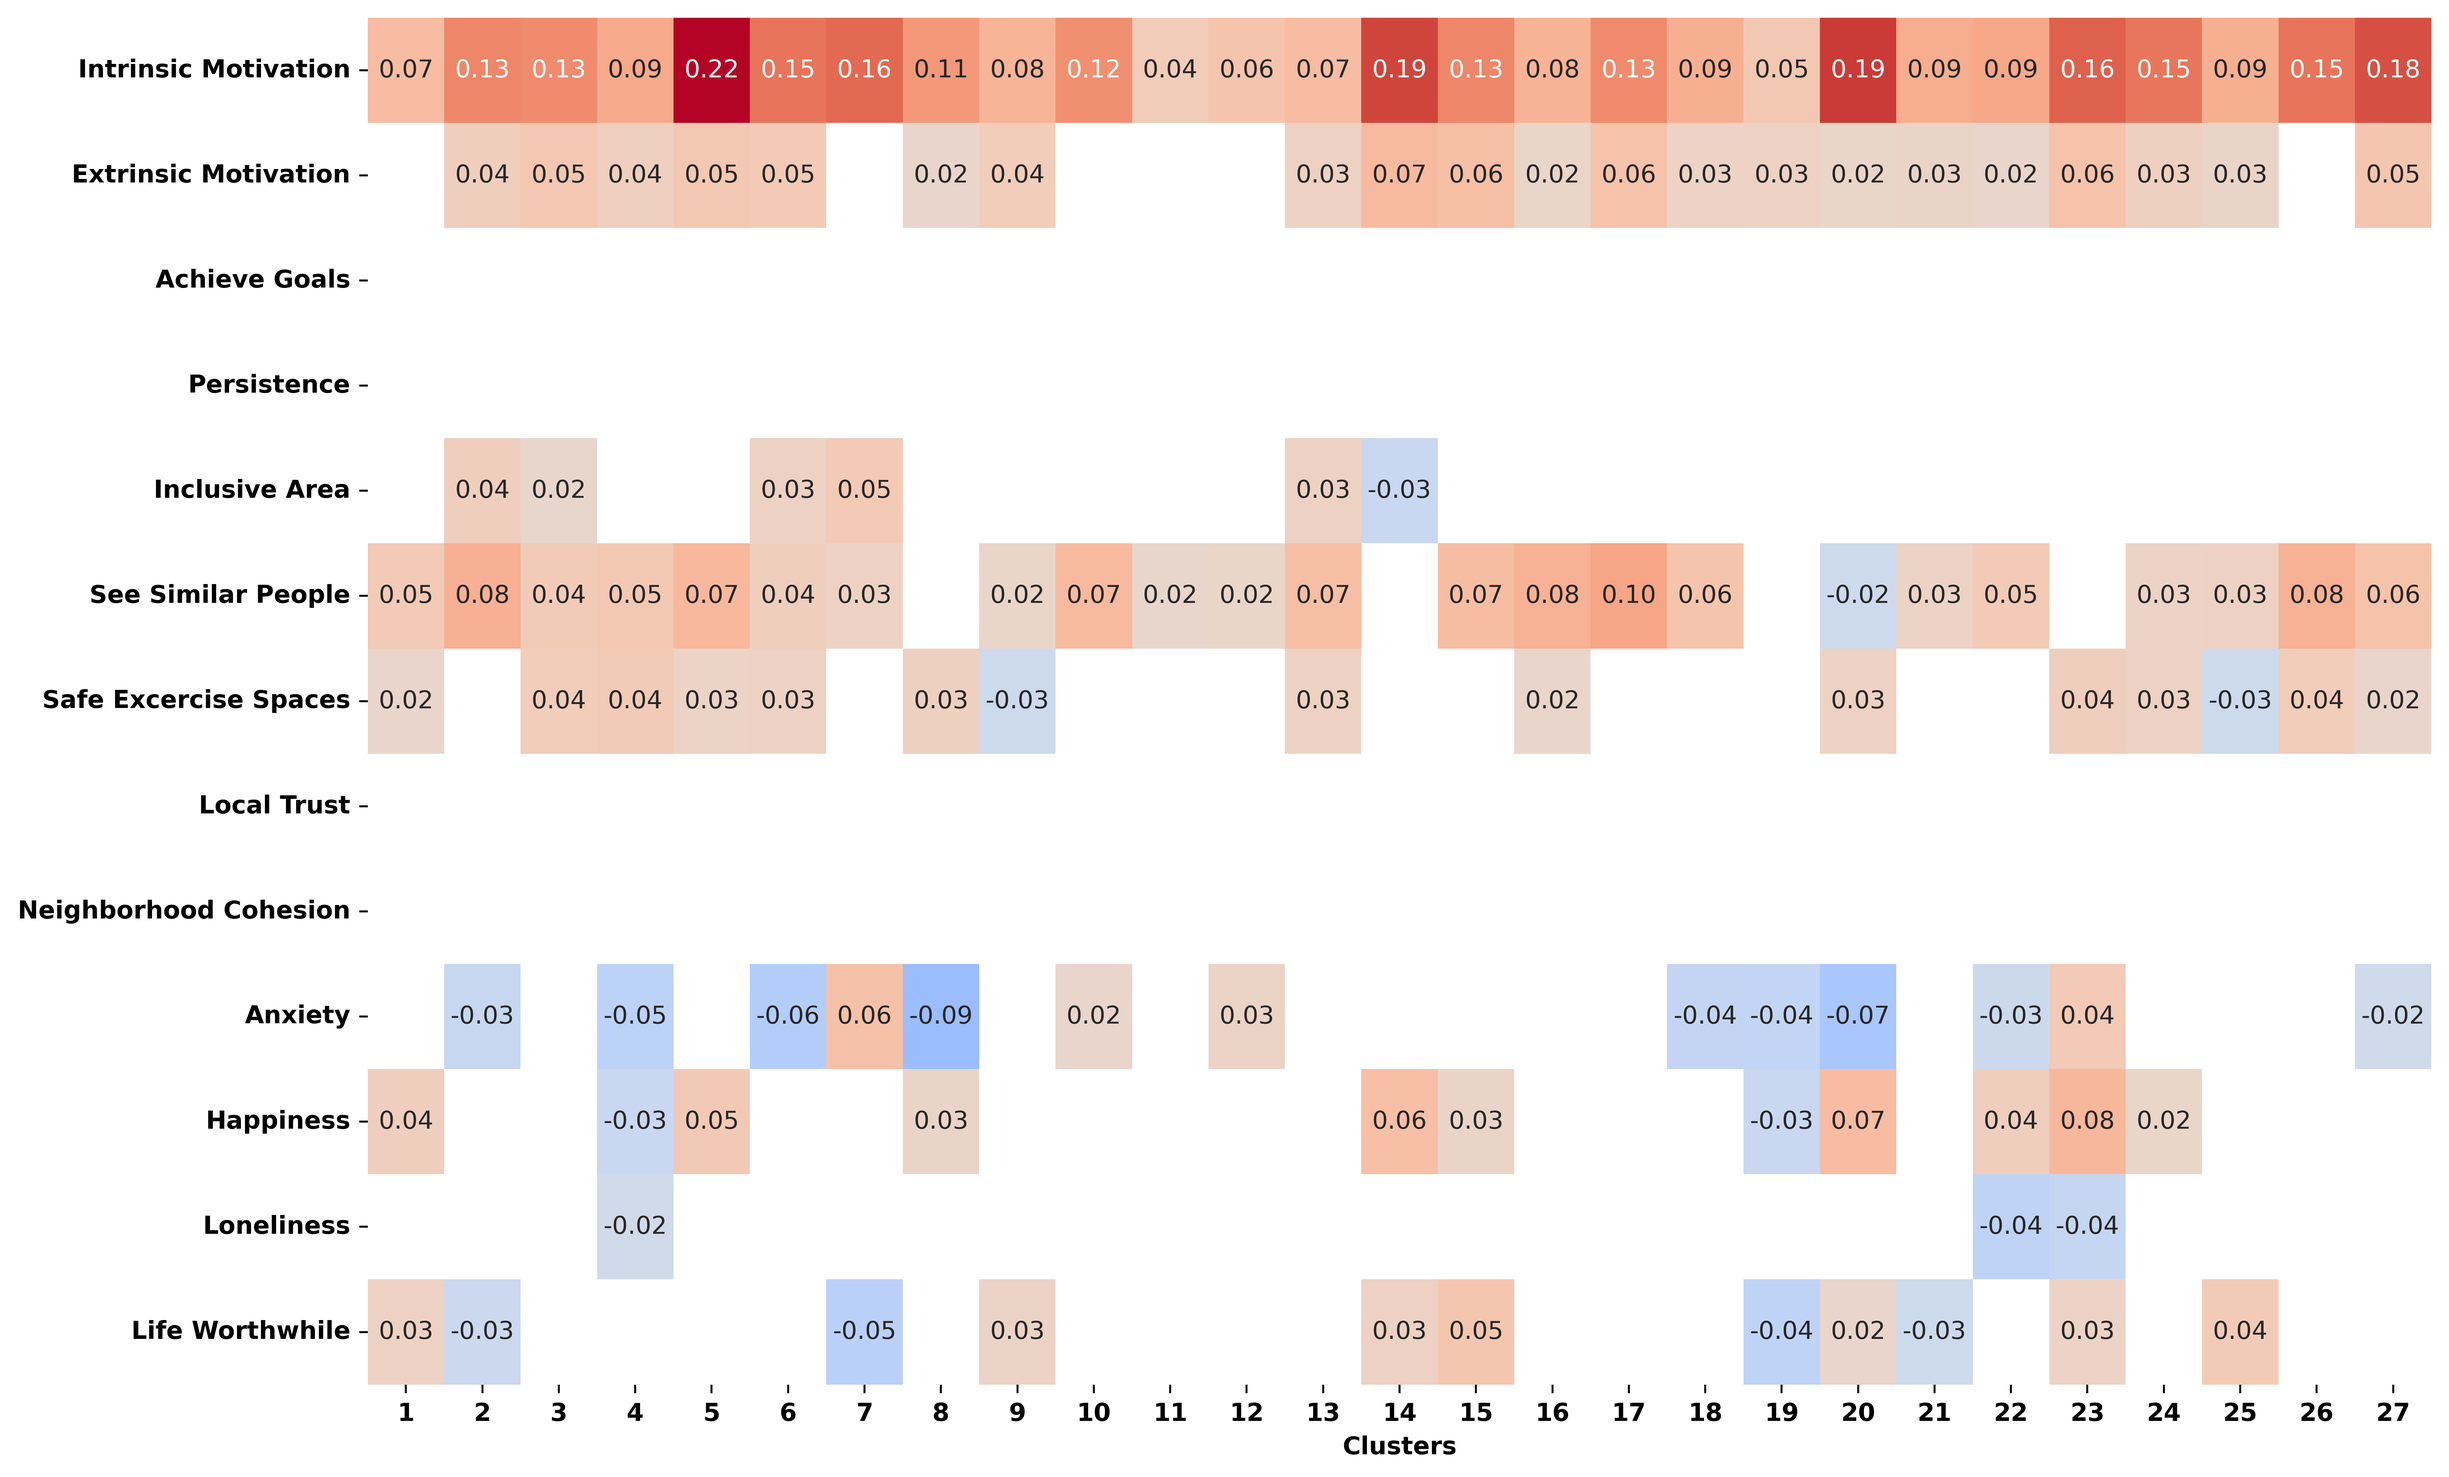
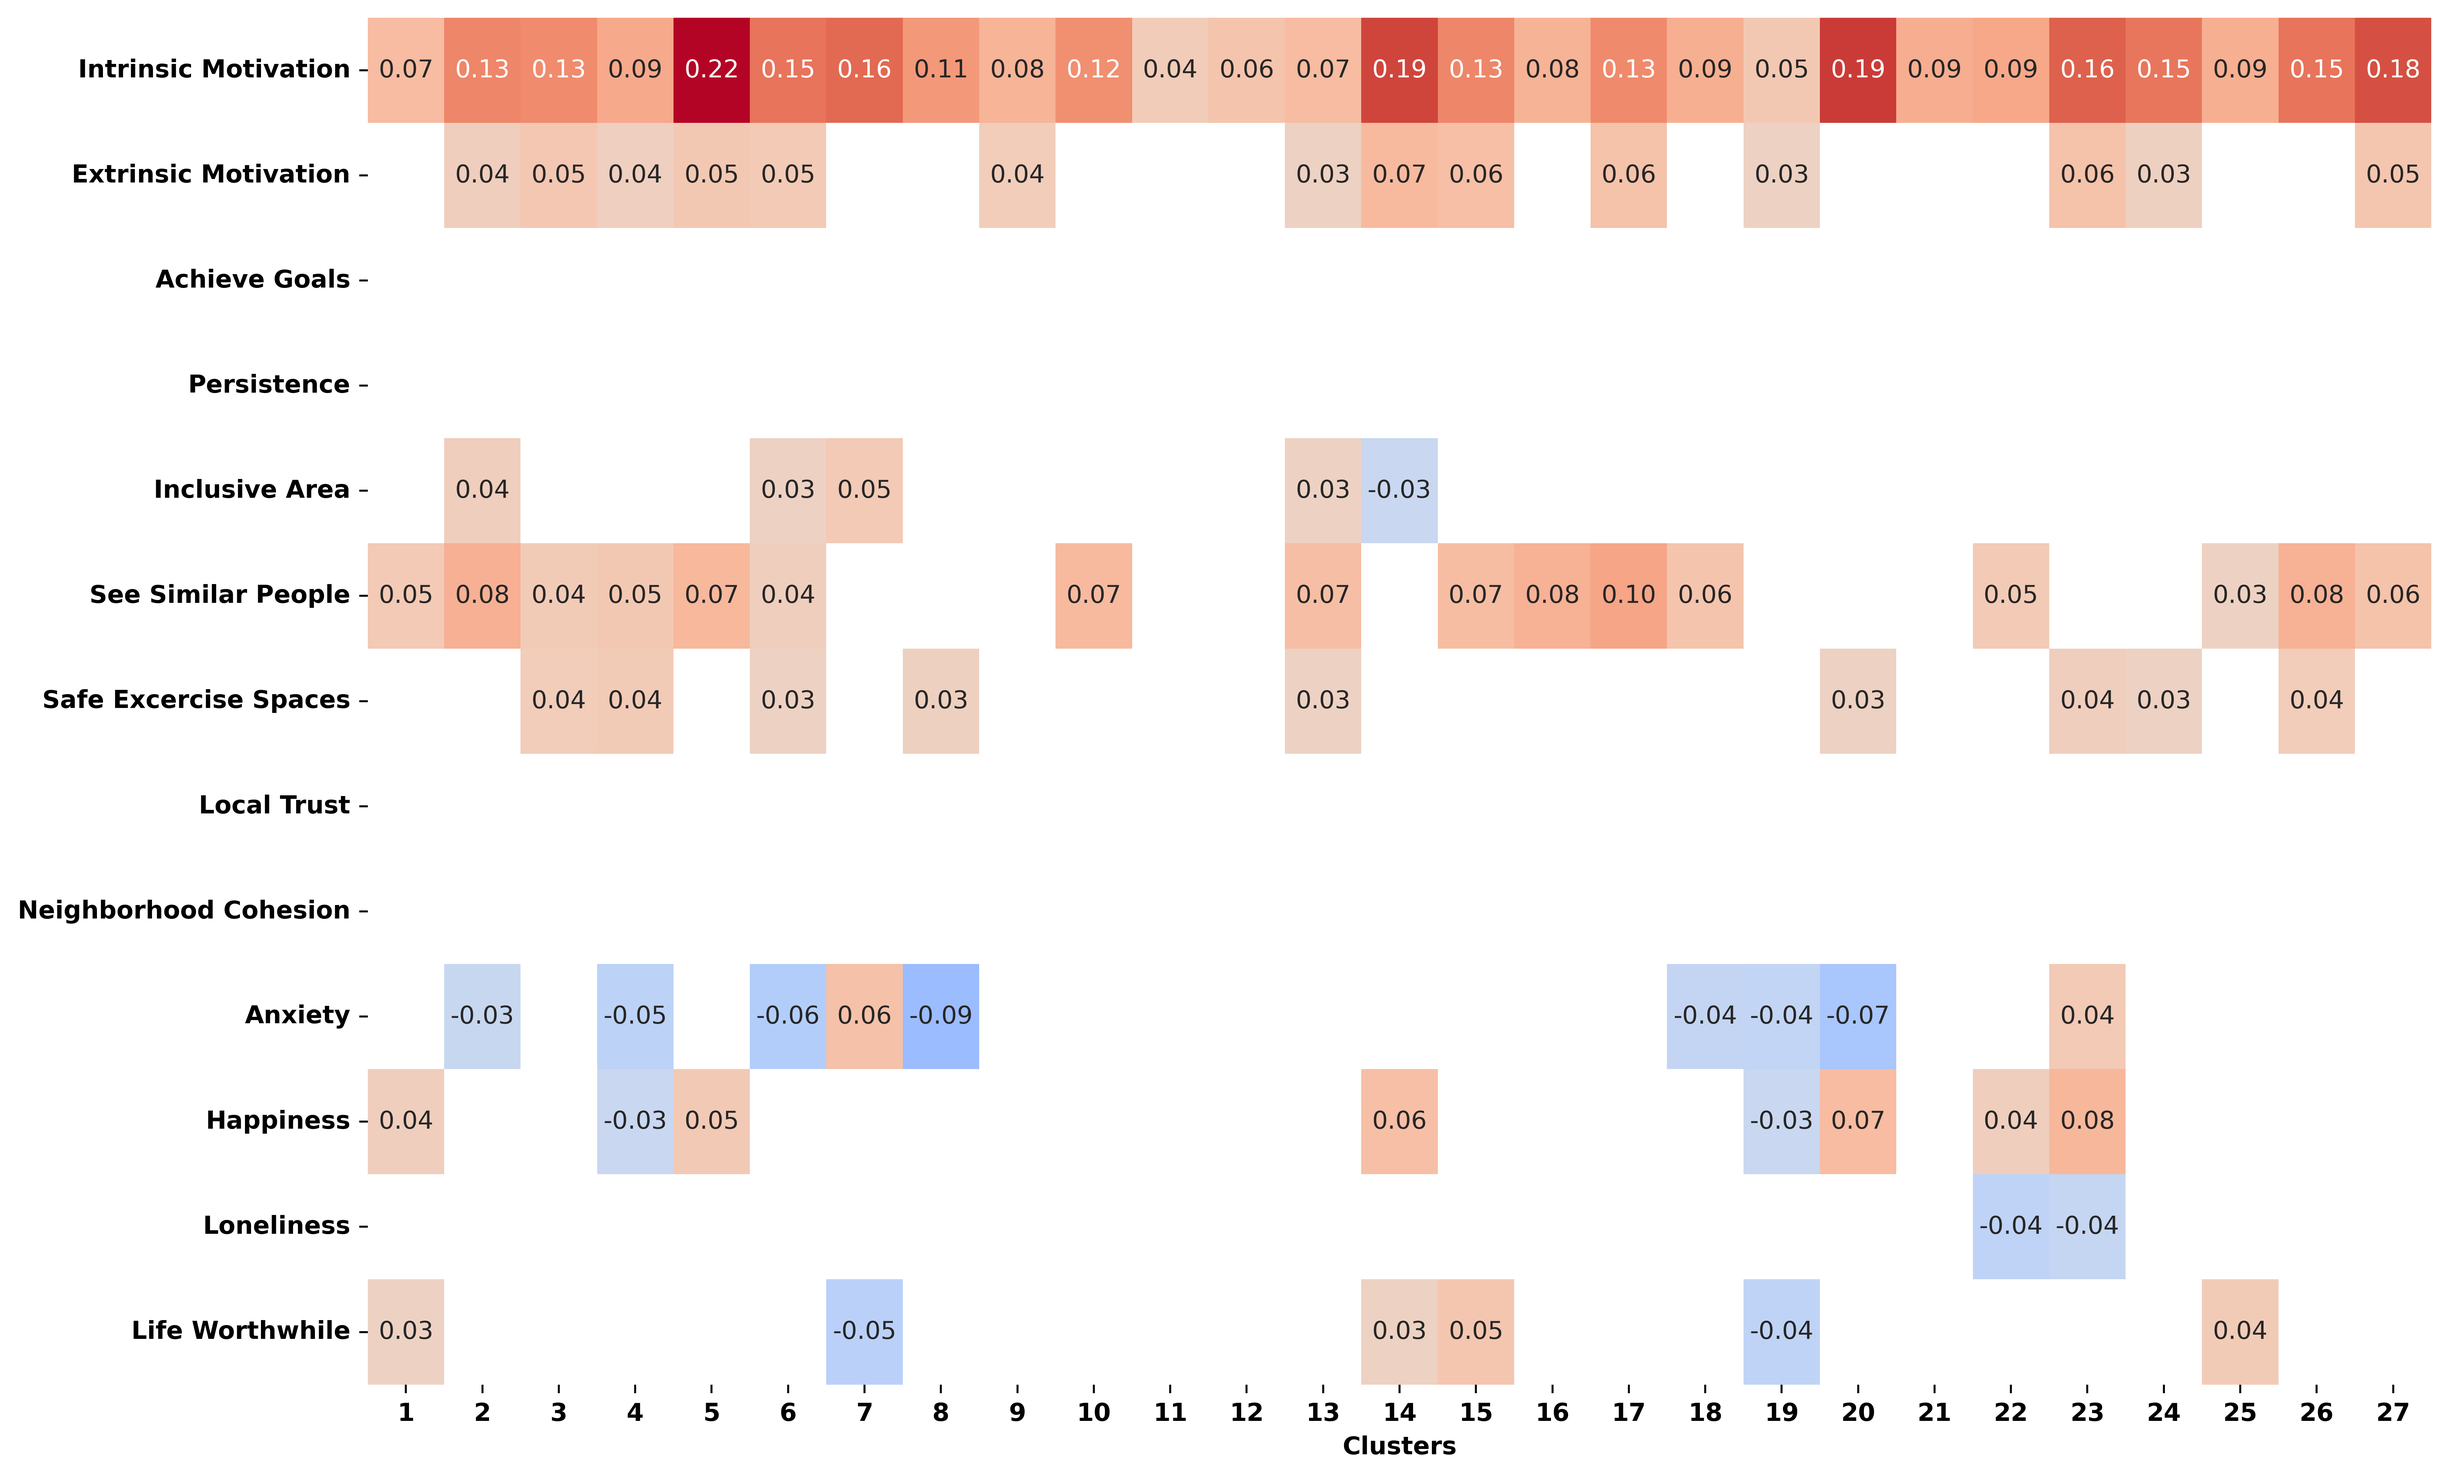
adjusted heatplot mask to 0.3 instead of 0.2 and regenerated plots

diff --git a/src/perturbation/create_perturbations.py b/src/perturbation/create_perturbations.py
@@ -17,7 +17,7 @@ def create_save_heatplot(breakdowns : pd.DataFrame, heatplot_name : str):
 
     heat = breakdowns.drop(columns = 'labels').T
     heat.columns = heat.columns + 1
-    mask = heat.abs() < 0.02
+    mask = heat.abs() < 0.03
     plt.figure(figsize=(15, 10))
     sns.heatmap(
         heat,
@@ -137,6 +137,9 @@ def check_perturbed_counts(df_path : Path, dc = DataCatalogue()):
 
     print(f'Saved {file_name} to {save_path}')
 
+models = [
+    '101_XGBoostClassifier.sav', '102_RFClassifier.sav', '103_LightGBMClassifier.sav'
+]
 
 if __name__ == '__main__':
 

diff --git a/src/loading_data/data_catalogue.py b/src/loading_data/data_catalogue.py
@@ -155,3 +155,4 @@ class DataCatalogue:
 if __name__ == '__main__':
     dc = DataCatalogue()
     print(dc.get_perturbation_processing_categoricals())
+    print(dc.get_perturbation_vars())
